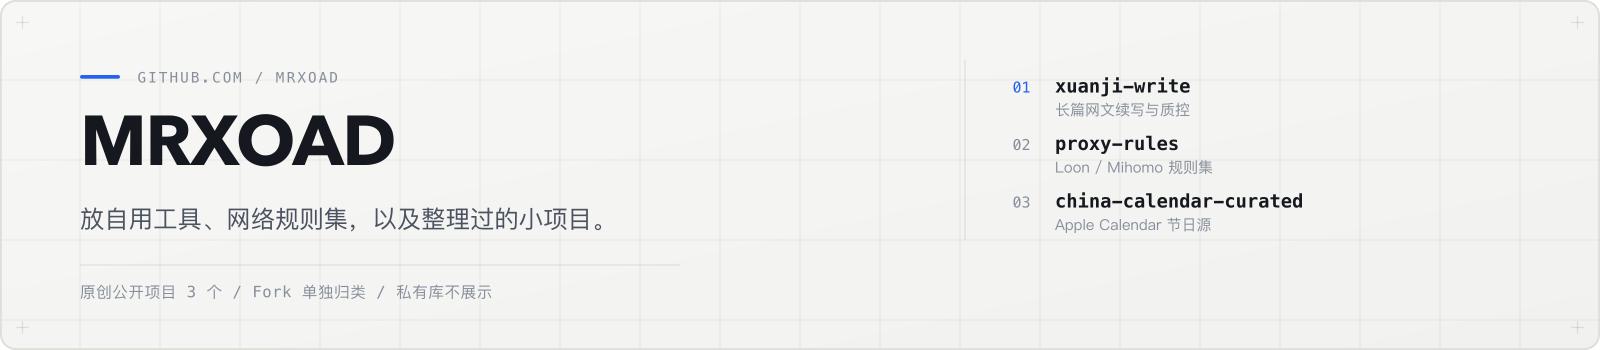
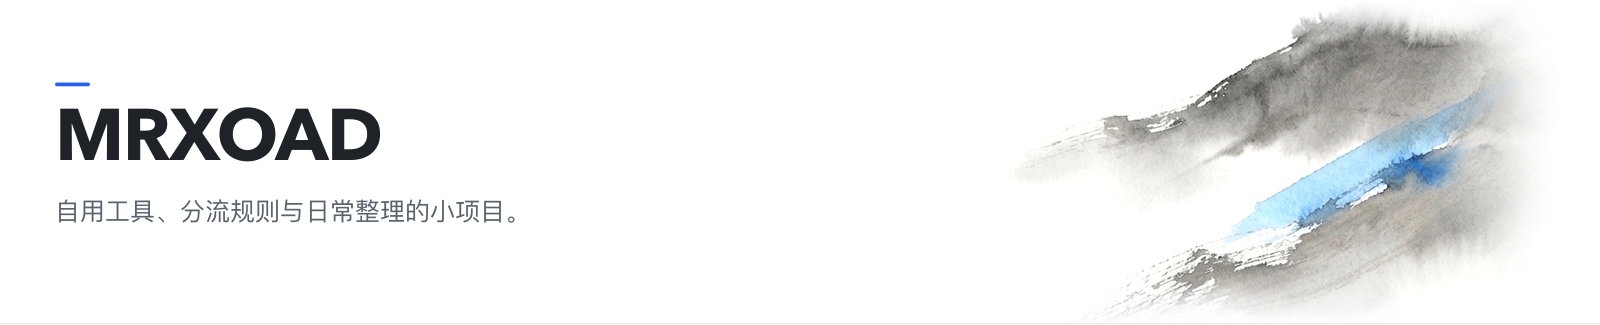
style: adopt seamless sumi-e ink header and borderless layout

diff --git a/README.md b/README.md
@@ -6,23 +6,33 @@
   </picture>
 </p>
 
-这里只放整理过、可以直接复用的自用工具和规则集。私有仓库不在这里展示，顺手 Fork 的上游项目单独放在下面。
+<p>
+  <samp>
+    <a href="https://github.com/MRXOAD/xuanji-write">xuanji-write</a> ·
+    <a href="https://github.com/MRXOAD/proxy-rules">proxy-rules</a> ·
+    <a href="https://github.com/MRXOAD/china-calendar-curated">china-calendar-curated</a> ·
+    <a href="https://mrxoad.github.io/china-calendar-curated/all.ics">all.ics</a>
+  </samp>
+</p>
 
-## 原创项目
+### 原创项目
 
-| 项目 | 说明 | 入口 |
-| --- | --- | --- |
-| [**xuanji-write**](https://github.com/MRXOAD/xuanji-write) | 中文长篇网文 LLM 续写框架，含 11 层一致性审查、写作/监控双模型分流与进度面板 | Python / Docker · [CI](https://github.com/MRXOAD/xuanji-write/actions/workflows/ci.yml) |
-| [**proxy-rules**](https://github.com/MRXOAD/proxy-rules) | 自用 Loon 与 Mihomo 分流规则集及去广告插件，支持 GitHub Raw 直接引入 | Loon / Mihomo · [清单](https://github.com/MRXOAD/proxy-rules#规则与插件清单) |
-| [**china-calendar-curated**](https://github.com/MRXOAD/china-calendar-curated) | Apple Calendar 精选中国节日、农历与二十四节气订阅源，发布前自动对照 Apple 官方源去重 | Python / Pages · [all.ics](https://mrxoad.github.io/china-calendar-curated/all.ics) |
+- **[xuanji-write](https://github.com/MRXOAD/xuanji-write)** — 中文长篇网文 LLM 续写框架，含 11 层一致性检查、写作/监控双模型分流与实时进度面板。<br/>
+  <sub>`Python` · `FastAPI` · `React` · `Docker`</sub>
+- **[proxy-rules](https://github.com/MRXOAD/proxy-rules)** — 自用 Loon 与 Mihomo 分流规则集、去广告重写与插件，支持 GitHub Raw 直接引入。<br/>
+  <sub>`Loon` · `Mihomo` · `JavaScript`</sub>
+- **[china-calendar-curated](https://github.com/MRXOAD/china-calendar-curated)** — Apple Calendar 精选中国节日、农历与二十四节气订阅源（2000–2100），发布前自动对照 Apple 官方源去重。<br/>
+  <sub>`Python` · `ICS` · `GitHub Pages` · <a href="https://mrxoad.github.io/china-calendar-curated/all.ics">订阅 all.ics</a></sub>
 
-## Fork
+<br/>
 
 <details>
-<summary>上游跟踪（非原创，与上方项目分开）</summary>
+<summary><samp>Forks (3)</samp></summary>
 
-- [MRXOAD/rea](https://github.com/MRXOAD/rea) ← [morluto/rea](https://github.com/morluto/rea)
-- [MRXOAD/CyberStrikeAI](https://github.com/MRXOAD/CyberStrikeAI) ← [chigejuzi520/CyberStrikeAI](https://github.com/chigejuzi520/CyberStrikeAI)
-- [MRXOAD/codex-with-chatgpt](https://github.com/MRXOAD/codex-with-chatgpt) ← [XiaoDuoYa/codex-with-chatgpt](https://github.com/XiaoDuoYa/codex-with-chatgpt)
+<br/>
+
+- [rea](https://github.com/MRXOAD/rea) ← `morluto/rea`
+- [CyberStrikeAI](https://github.com/MRXOAD/CyberStrikeAI) ← `chigejuzi520/CyberStrikeAI`
+- [codex-with-chatgpt](https://github.com/MRXOAD/codex-with-chatgpt) ← `XiaoDuoYa/codex-with-chatgpt`
 
 </details>
